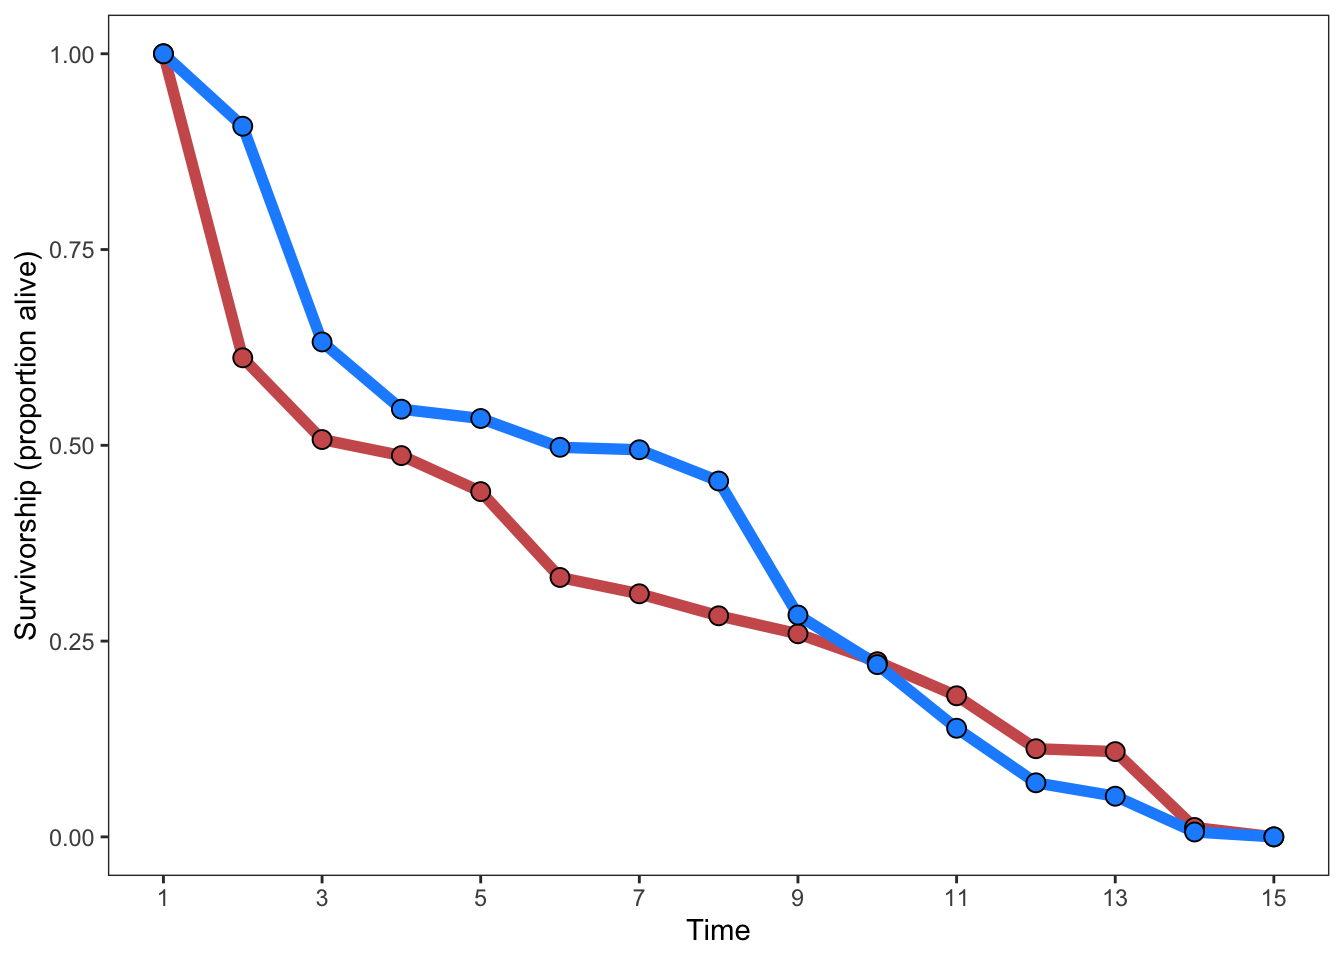
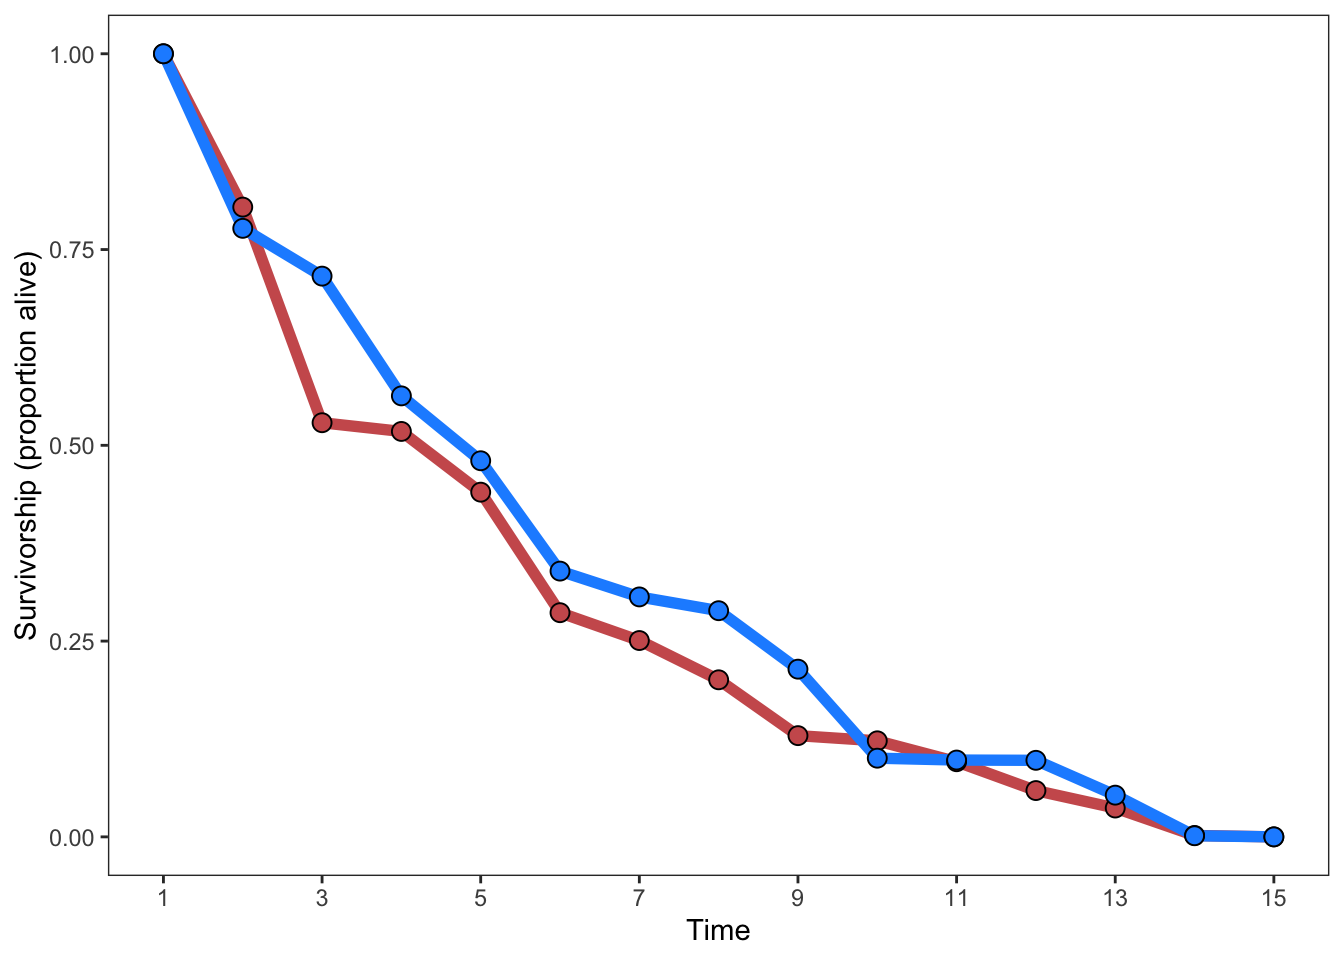
updates

Changed region(s): [[0.125, 0.0625, 0.9375, 0.875], [0.5312, 0.5, 0.5625, 0.5625]]

diff --git a/docs/3.3-lnOR-challenges.html b/docs/3.3-lnOR-challenges.html
@@ -4,7 +4,7 @@
 <meta charset="utf-8">
 <meta name="generator" content="quarto-1.9.38">
 <meta name="viewport" content="width=device-width, initial-scale=1.0, user-scalable=yes">
-<meta name="dcterms.date" content="2026-07-18">
+<meta name="dcterms.date" content="2026-07-19">
 <title>Discrete outcomes with discrete predictor – A user’s guide to effect sizes</title>
 <style>
 /* Default styles provided by pandoc.
@@ -325,7 +325,7 @@ window.Quarto = {
     <div>
     <div class="quarto-title-meta-heading">Published</div>
     <div class="quarto-title-meta-contents">
-      <p class="date">July 18, 2026</p>
+      <p class="date">July 19, 2026</p>
     </div>
   </div>
   
@@ -397,6 +397,7 @@ window.Quarto = {
 </table>
 </div>
 </div>
+<p><strong>Add values so this doesn’t look so dumb…</strong></p>
 <p>Here is a cheatsheet for extracting lnOR/lnRR type data: [XXXXXXX]</p>
 <section id="the-easy-cases" class="level1"><h1>The easy cases</h1>
 <p>Let’s start with some ideal, dreamy lnOR type data.</p>
@@ -623,7 +624,8 @@ window.Quarto = {
 </table>
 <p>As one can see, this type of data also poses a classic time-series challenge, which can face all effect sizes. We recommend extracting the data for each time point and then using random effects to control for temporal autocorrelation in your meta-analytic model (see sec-XXXX). An alternative is to extract the time point with the greatest difference between control and treatment and analyze that.</p>
 </section><section id="meanerror-outcome-for-two-discrete-groups" class="level2"><h2 class="anchored" data-anchor-id="meanerror-outcome-for-two-discrete-groups">Mean±error outcome for two discrete groups</h2>
-<p>Sometimes discrete outcomes are summarized into mean±error across trials/sites/islands/etc. This data format lends itself naturally to SMD/lnRoM/Zmu type effect sizes <span class="citation" data-cites="sec">(<a href="#ref-sec" role="doc-biblioref"><strong>sec?</strong></a>)</span>. However, the sample size for these effect sizes are likely to be the number of trials/sites/islands/etc instead of the number of individuals. This may make this effect size uncomparable to the rest of your dataset, if the rest of your dataset has individuals as the unit of replication.</p>
+<p>Sometimes discrete outcomes are summarized into mean±error across trials/sites/islands/etc. For example, a paper that monitored mortality rates across a discrete number nests on separate islands, calculated the mortality rate, and then summarized by mean±error across islands.</p>
+<p>This data format lends itself naturally to SMD/lnRoM/Zmu type effect sizes <span class="citation" data-cites="sec">(<a href="#ref-sec" role="doc-biblioref"><strong>sec?</strong></a>)</span>. However, the sample size for the mean±error in these summaries are the number of trials/sites/islands/etc instead of the number of individuals (or nests). If the unit of replication of the rest of your dataset is the number of individuals (or nests) then this effect size would have vastly less weight in your models (and probably shouldn’t be included).</p>
 <div class="cell">
 <div class="cell-output-display">
 <div>
@@ -727,9 +729,9 @@ p=1-\frac{sd^2}{m}
 <td style="text-align: right;">7</td>
 <td style="text-align: right;">0.0264575</td>
 <td style="text-align: right;">0.9953333</td>
-<td style="text-align: right;">208</td>
+<td style="text-align: right;">209</td>
 <td style="text-align: right;">210</td>
-<td style="text-align: right;">2</td>
+<td style="text-align: right;">1</td>
 </tr>
 <tr class="even">
 <td style="text-align: right;">0.31</td>
@@ -738,9 +740,9 @@ p=1-\frac{sd^2}{m}
 <td style="text-align: right;">9</td>
 <td style="text-align: right;">0.0450000</td>
 <td style="text-align: right;">0.9934677</td>
-<td style="text-align: right;">269</td>
+<td style="text-align: right;">268</td>
 <td style="text-align: right;">270</td>
-<td style="text-align: right;">1</td>
+<td style="text-align: right;">2</td>
 </tr>
 </tbody>
 </table>
@@ -1305,7 +1307,7 @@ p=1-\frac{sd^2}{m}
 <span id="cb5-94"><a href="#cb5-94" aria-hidden="true" tabindex="-1"></a>knitr<span class="sc">::</span><span class="fu">kable</span>(dat)</span>
 <span id="cb5-95"><a href="#cb5-95" aria-hidden="true" tabindex="-1"></a></span>
 <span id="cb5-96"><a href="#cb5-96" aria-hidden="true" tabindex="-1"></a><span class="in">```</span></span>
-<span id="cb5-97"><a href="#cb5-97" aria-hidden="true" tabindex="-1"></a></span>
+<span id="cb5-97"><a href="#cb5-97" aria-hidden="true" tabindex="-1"></a>**Add values so this doesn't look so dumb...**</span>
 <span id="cb5-98"><a href="#cb5-98" aria-hidden="true" tabindex="-1"></a></span>
 <span id="cb5-99"><a href="#cb5-99" aria-hidden="true" tabindex="-1"></a>Here is a cheatsheet for extracting lnOR/lnRR type data: <span class="co">[</span><span class="ot">XXXXXXX</span><span class="co">]</span></span>
 <span id="cb5-100"><a href="#cb5-100" aria-hidden="true" tabindex="-1"></a></span>
@@ -1488,114 +1490,115 @@ p=1-\frac{sd^2}{m}
 <span id="cb5-287"><a href="#cb5-287" aria-hidden="true" tabindex="-1"></a></span>
 <span id="cb5-288"><a href="#cb5-288" aria-hidden="true" tabindex="-1"></a><span class="fu">## Mean±error outcome for two discrete groups</span></span>
 <span id="cb5-289"><a href="#cb5-289" aria-hidden="true" tabindex="-1"></a></span>
-<span id="cb5-290"><a href="#cb5-290" aria-hidden="true" tabindex="-1"></a>Sometimes discrete outcomes are summarized into mean±error across trials/sites/islands/etc. This data format lends itself naturally to SMD/lnRoM/Zmu type effect sizes @sec. However, the sample size for these effect sizes are likely to be the number of trials/sites/islands/etc instead of the number of individuals. This may make this effect size uncomparable to the rest of your dataset, if the rest of your dataset has individuals as the unit of replication. </span>
+<span id="cb5-290"><a href="#cb5-290" aria-hidden="true" tabindex="-1"></a>Sometimes discrete outcomes are summarized into mean±error across trials/sites/islands/etc. For example, a paper that monitored mortality rates across a discrete number nests on separate islands, calculated the mortality rate, and then summarized by mean±error across islands.</span>
 <span id="cb5-291"><a href="#cb5-291" aria-hidden="true" tabindex="-1"></a></span>
-<span id="cb5-294"><a href="#cb5-294" aria-hidden="true" tabindex="-1"></a><span class="in">```{r}</span></span>
-<span id="cb5-295"><a href="#cb5-295" aria-hidden="true" tabindex="-1"></a><span class="co">#| echo: false</span></span>
-<span id="cb5-296"><a href="#cb5-296" aria-hidden="true" tabindex="-1"></a><span class="co">#| eval: true</span></span>
-<span id="cb5-297"><a href="#cb5-297" aria-hidden="true" tabindex="-1"></a><span class="co">#| out-width: "70%"</span></span>
-<span id="cb5-298"><a href="#cb5-298" aria-hidden="true" tabindex="-1"></a></span>
-<span id="cb5-299"><a href="#cb5-299" aria-hidden="true" tabindex="-1"></a><span class="co"># Simple:</span></span>
-<span id="cb5-300"><a href="#cb5-300" aria-hidden="true" tabindex="-1"></a>dt <span class="ot">&lt;-</span> <span class="fu">data.table</span>(<span class="at">mean =</span> <span class="fu">c</span>(<span class="fl">0.15</span>, <span class="fl">0.31</span>), </span>
-<span id="cb5-301"><a href="#cb5-301" aria-hidden="true" tabindex="-1"></a>                 <span class="at">group =</span> <span class="fu">c</span>(<span class="st">"Control"</span>, <span class="st">"Treatment"</span>),</span>
-<span id="cb5-302"><a href="#cb5-302" aria-hidden="true" tabindex="-1"></a>                 <span class="at">se =</span> <span class="fu">c</span>(<span class="fl">0.01</span>, <span class="fl">0.015</span>))</span>
-<span id="cb5-303"><a href="#cb5-303" aria-hidden="true" tabindex="-1"></a><span class="co"># dt &lt;- </span></span>
-<span id="cb5-304"><a href="#cb5-304" aria-hidden="true" tabindex="-1"></a><span class="fu">ggplot</span>(<span class="at">data =</span> dt,</span>
-<span id="cb5-305"><a href="#cb5-305" aria-hidden="true" tabindex="-1"></a>       <span class="fu">aes</span>(<span class="at">x =</span> group, <span class="at">y =</span> mean, <span class="at">fill =</span> group, <span class="at">ymin =</span> mean<span class="sc">-</span>se,</span>
-<span id="cb5-306"><a href="#cb5-306" aria-hidden="true" tabindex="-1"></a>           <span class="at">ymax =</span> mean<span class="sc">+</span>se))<span class="sc">+</span></span>
-<span id="cb5-307"><a href="#cb5-307" aria-hidden="true" tabindex="-1"></a>  <span class="fu">geom_col</span>()<span class="sc">+</span></span>
-<span id="cb5-308"><a href="#cb5-308" aria-hidden="true" tabindex="-1"></a>  <span class="fu">geom_errorbar</span>(<span class="at">width =</span> <span class="fl">0.5</span>)<span class="sc">+</span></span>
-<span id="cb5-309"><a href="#cb5-309" aria-hidden="true" tabindex="-1"></a>  <span class="fu">scale_fill_manual</span>(<span class="cn">NULL</span>,</span>
-<span id="cb5-310"><a href="#cb5-310" aria-hidden="true" tabindex="-1"></a>                    <span class="at">values =</span> <span class="fu">c</span>(<span class="st">"Control"</span> <span class="ot">=</span> <span class="st">"dodgerblue2"</span>,</span>
-<span id="cb5-311"><a href="#cb5-311" aria-hidden="true" tabindex="-1"></a>                               <span class="st">"Treatment"</span> <span class="ot">=</span> <span class="st">"indianred"</span>))<span class="sc">+</span>  </span>
-<span id="cb5-312"><a href="#cb5-312" aria-hidden="true" tabindex="-1"></a>  <span class="fu">xlab</span>(<span class="cn">NULL</span>)<span class="sc">+</span></span>
-<span id="cb5-313"><a href="#cb5-313" aria-hidden="true" tabindex="-1"></a>  <span class="fu">ylab</span>(<span class="st">"Mean mortality rate across sites (±standard error)"</span>)<span class="sc">+</span></span>
-<span id="cb5-314"><a href="#cb5-314" aria-hidden="true" tabindex="-1"></a>  <span class="fu">theme_bw</span>()<span class="sc">+</span></span>
-<span id="cb5-315"><a href="#cb5-315" aria-hidden="true" tabindex="-1"></a>  <span class="fu">theme</span>(<span class="at">panel.grid =</span> <span class="fu">element_blank</span>(),</span>
-<span id="cb5-316"><a href="#cb5-316" aria-hidden="true" tabindex="-1"></a>        <span class="at">legend.position =</span> <span class="st">"none"</span>)</span>
-<span id="cb5-317"><a href="#cb5-317" aria-hidden="true" tabindex="-1"></a></span>
-<span id="cb5-318"><a href="#cb5-318" aria-hidden="true" tabindex="-1"></a>dt[, n_sites <span class="sc">:</span><span class="er">=</span> <span class="fu">ifelse</span>(group <span class="sc">==</span> <span class="st">"Control"</span>, <span class="dv">7</span>, <span class="dv">9</span>)]</span>
-<span id="cb5-319"><a href="#cb5-319" aria-hidden="true" tabindex="-1"></a></span>
-<span id="cb5-320"><a href="#cb5-320" aria-hidden="true" tabindex="-1"></a><span class="in">```</span></span>
-<span id="cb5-321"><a href="#cb5-321" aria-hidden="true" tabindex="-1"></a></span>
-<span id="cb5-322"><a href="#cb5-322" aria-hidden="true" tabindex="-1"></a>This data required a total number of individuals in each fate category (e.g., alive vs dead) and is thus ultimately best suited for lnOR type effect sizes—yet it's presented in a way that is most readily extractable for SMD/lnRoM/Zmu effect sizes. Moreover, as you can see, this figure presents standard error, not standard deviation. Converting standard error to standard deviation requires the sample size used by the study authors to calculate standard error in the first place, which is the number of sites.</span>
-<span id="cb5-323"><a href="#cb5-323" aria-hidden="true" tabindex="-1"></a></span>
-<span id="cb5-324"><a href="#cb5-324" aria-hidden="true" tabindex="-1"></a>In this case, we'd recommend reconstructing the fate of individuals within each site, using properties of the binomial distribution. This requires the following information:</span>
-<span id="cb5-325"><a href="#cb5-325" aria-hidden="true" tabindex="-1"></a></span>
-<span id="cb5-326"><a href="#cb5-326" aria-hidden="true" tabindex="-1"></a>**Is this the best option???**</span>
-<span id="cb5-327"><a href="#cb5-327" aria-hidden="true" tabindex="-1"></a></span>
-<span id="cb5-328"><a href="#cb5-328" aria-hidden="true" tabindex="-1"></a>1) the number of sites used in calculating the standard error.</span>
-<span id="cb5-329"><a href="#cb5-329" aria-hidden="true" tabindex="-1"></a></span>
-<span id="cb5-330"><a href="#cb5-330" aria-hidden="true" tabindex="-1"></a>2) the number of individuals at each site.</span>
-<span id="cb5-331"><a href="#cb5-331" aria-hidden="true" tabindex="-1"></a></span>
-<span id="cb5-332"><a href="#cb5-332" aria-hidden="true" tabindex="-1"></a>The number of sites is, in binomial speak, the number of trials (usually denoted $m$ but here we'll denote it as $t$ to avoid confusion with mean). The number of individuals is the number of observations ($n$).</span>
-<span id="cb5-333"><a href="#cb5-333" aria-hidden="true" tabindex="-1"></a></span>
-<span id="cb5-334"><a href="#cb5-334" aria-hidden="true" tabindex="-1"></a>Let's imagine that we found that the number of sites was 7 for the control treatment and 9 for the treatment. We start by using these to convert the extracted standard error ($se$) to standard deviation ($sd$) in our data.table we extracted from the figure:</span>
-<span id="cb5-335"><a href="#cb5-335" aria-hidden="true" tabindex="-1"></a></span>
-<span id="cb5-338"><a href="#cb5-338" aria-hidden="true" tabindex="-1"></a><span class="in">```{r}</span></span>
-<span id="cb5-339"><a href="#cb5-339" aria-hidden="true" tabindex="-1"></a><span class="co">#| eval: true</span></span>
-<span id="cb5-340"><a href="#cb5-340" aria-hidden="true" tabindex="-1"></a><span class="co">#| echo: true</span></span>
-<span id="cb5-341"><a href="#cb5-341" aria-hidden="true" tabindex="-1"></a><span class="co">#| out-width: "70%"</span></span>
-<span id="cb5-342"><a href="#cb5-342" aria-hidden="true" tabindex="-1"></a></span>
-<span id="cb5-343"><a href="#cb5-343" aria-hidden="true" tabindex="-1"></a>dt[, sd <span class="sc">:</span><span class="er">=</span> se <span class="sc">*</span> <span class="fu">sqrt</span>(n_sites)]</span>
-<span id="cb5-344"><a href="#cb5-344" aria-hidden="true" tabindex="-1"></a></span>
-<span id="cb5-345"><a href="#cb5-345" aria-hidden="true" tabindex="-1"></a>knitr<span class="sc">::</span><span class="fu">kable</span>(dt)</span>
-<span id="cb5-346"><a href="#cb5-346" aria-hidden="true" tabindex="-1"></a></span>
-<span id="cb5-347"><a href="#cb5-347" aria-hidden="true" tabindex="-1"></a><span class="in">```</span></span>
-<span id="cb5-348"><a href="#cb5-348" aria-hidden="true" tabindex="-1"></a></span>
-<span id="cb5-349"><a href="#cb5-349" aria-hidden="true" tabindex="-1"></a>**I'm not sure this is right...**</span>
-<span id="cb5-350"><a href="#cb5-350" aria-hidden="true" tabindex="-1"></a></span>
-<span id="cb5-351"><a href="#cb5-351" aria-hidden="true" tabindex="-1"></a>We now use the mean ($m$) and standard deviation to calculate $p$, the parameter that describes the shape of the binomial distribution. Note that the the standard deviation must be less than the square root of the mean.</span>
-<span id="cb5-352"><a href="#cb5-352" aria-hidden="true" tabindex="-1"></a></span>
-<span id="cb5-353"><a href="#cb5-353" aria-hidden="true" tabindex="-1"></a>$$</span>
-<span id="cb5-354"><a href="#cb5-354" aria-hidden="true" tabindex="-1"></a>p=1-\frac{sd^2}{m}</span>
-<span id="cb5-355"><a href="#cb5-355" aria-hidden="true" tabindex="-1"></a>$$</span>
-<span id="cb5-356"><a href="#cb5-356" aria-hidden="true" tabindex="-1"></a>We also gleaned from the text that the number of individuals was 30 per site Things get more tricky, coding wise, if the number of individuals is different per site. We use this, along with <span class="in">`p`</span> to simulate the underlying number of individuals that are alive vs dead across all sites per control and treatment.</span>
-<span id="cb5-357"><a href="#cb5-357" aria-hidden="true" tabindex="-1"></a></span>
-<span id="cb5-358"><a href="#cb5-358" aria-hidden="true" tabindex="-1"></a><span class="in">`rbinom`</span>, which we'll use to draw binomial data, takes <span class="in">`p`</span> as well as <span class="in">`n`</span>, which is the number of sites, and <span class="in">`size`</span>, which is the number of individuals per site</span>
-<span id="cb5-359"><a href="#cb5-359" aria-hidden="true" tabindex="-1"></a>**Is that correct??**</span>
-<span id="cb5-360"><a href="#cb5-360" aria-hidden="true" tabindex="-1"></a></span>
-<span id="cb5-361"><a href="#cb5-361" aria-hidden="true" tabindex="-1"></a>Since we're interested in the total number that lived, we take the sum of each vector produced by <span class="in">`rbinom`</span>. This vector will be of length equal to the number of sites, with an integer that is the number that lived of 30 individuals per site.</span>
-<span id="cb5-362"><a href="#cb5-362" aria-hidden="true" tabindex="-1"></a></span>
-<span id="cb5-363"><a href="#cb5-363" aria-hidden="true" tabindex="-1"></a>**p becomes equal in both treatments...Think there must be a relationship between mean and sd that I don't understand. Or my equation is wrong...**</span>
-<span id="cb5-366"><a href="#cb5-366" aria-hidden="true" tabindex="-1"></a><span class="in">```{r}</span></span>
-<span id="cb5-367"><a href="#cb5-367" aria-hidden="true" tabindex="-1"></a>dt[, p <span class="sc">:</span><span class="er">=</span> (<span class="dv">1</span> <span class="sc">-</span> (sd<span class="sc">^</span><span class="dv">2</span>)<span class="sc">/</span>mean)]</span>
-<span id="cb5-368"><a href="#cb5-368" aria-hidden="true" tabindex="-1"></a></span>
-<span id="cb5-369"><a href="#cb5-369" aria-hidden="true" tabindex="-1"></a><span class="cf">for</span>(i <span class="cf">in</span> <span class="dv">1</span><span class="sc">:</span><span class="fu">nrow</span>(dt)){</span>
-<span id="cb5-370"><a href="#cb5-370" aria-hidden="true" tabindex="-1"></a>  dt<span class="sc">$</span>n_alive[i] <span class="ot">&lt;-</span> <span class="fu">rbinom</span>(<span class="at">n =</span> dt<span class="sc">$</span>n_sites[i],</span>
-<span id="cb5-371"><a href="#cb5-371" aria-hidden="true" tabindex="-1"></a>                     <span class="at">size =</span> <span class="dv">30</span>,</span>
-<span id="cb5-372"><a href="#cb5-372" aria-hidden="true" tabindex="-1"></a>                     <span class="at">p =</span> dt<span class="sc">$</span>p[i]) <span class="sc">|&gt;</span> <span class="fu">sum</span>()</span>
-<span id="cb5-373"><a href="#cb5-373" aria-hidden="true" tabindex="-1"></a>}</span>
-<span id="cb5-374"><a href="#cb5-374" aria-hidden="true" tabindex="-1"></a></span>
-<span id="cb5-375"><a href="#cb5-375" aria-hidden="true" tabindex="-1"></a><span class="co"># Now calculate total number individuals:</span></span>
-<span id="cb5-376"><a href="#cb5-376" aria-hidden="true" tabindex="-1"></a>dt[, total_individuals <span class="sc">:</span><span class="er">=</span> <span class="dv">30</span> <span class="sc">*</span> n_sites]</span>
-<span id="cb5-377"><a href="#cb5-377" aria-hidden="true" tabindex="-1"></a>dt[, n_dead <span class="sc">:</span><span class="er">=</span> total_individuals <span class="sc">-</span> n_alive]</span>
-<span id="cb5-378"><a href="#cb5-378" aria-hidden="true" tabindex="-1"></a></span>
-<span id="cb5-379"><a href="#cb5-379" aria-hidden="true" tabindex="-1"></a>knitr<span class="sc">::</span><span class="fu">kable</span>(dt)</span>
-<span id="cb5-380"><a href="#cb5-380" aria-hidden="true" tabindex="-1"></a></span>
-<span id="cb5-381"><a href="#cb5-381" aria-hidden="true" tabindex="-1"></a><span class="in">```</span></span>
-<span id="cb5-382"><a href="#cb5-382" aria-hidden="true" tabindex="-1"></a></span>
-<span id="cb5-383"><a href="#cb5-383" aria-hidden="true" tabindex="-1"></a>Now you have the ingredients to calculate lnOR or lnRR. The sample size went from 7 and 9 to the actual number of individuals, making the unit of replication comparable with the other effect sizes in your dataset.</span>
-<span id="cb5-384"><a href="#cb5-384" aria-hidden="true" tabindex="-1"></a></span>
-<span id="cb5-385"><a href="#cb5-385" aria-hidden="true" tabindex="-1"></a>Note, that if there were variable numbers of individuals per site, then you'd want to create a long dataframe (e.g., by merging your extracted summaries with a table of number of individuals per site). Then loop through this longer data frame, using the number of individuals per site as your <span class="in">`size`</span> in the code above. </span>
-<span id="cb5-386"><a href="#cb5-386" aria-hidden="true" tabindex="-1"></a></span>
-<span id="cb5-387"><a href="#cb5-387" aria-hidden="true" tabindex="-1"></a>Let us know if you'd like us to write sample code to do something like that :)</span>
-<span id="cb5-388"><a href="#cb5-388" aria-hidden="true" tabindex="-1"></a></span>
-<span id="cb5-389"><a href="#cb5-389" aria-hidden="true" tabindex="-1"></a><span class="fu">## LC50?</span></span>
-<span id="cb5-390"><a href="#cb5-390" aria-hidden="true" tabindex="-1"></a></span>
-<span id="cb5-391"><a href="#cb5-391" aria-hidden="true" tabindex="-1"></a>Many laboratory studies, for example on the effects of a pollution agent on mortality, report LC50, which is the dosage at which 50% of the exposed individuals experience an outcome (e.g., die).</span>
-<span id="cb5-392"><a href="#cb5-392" aria-hidden="true" tabindex="-1"></a></span>
-<span id="cb5-393"><a href="#cb5-393" aria-hidden="true" tabindex="-1"></a>These figures look like this:</span>
-<span id="cb5-394"><a href="#cb5-394" aria-hidden="true" tabindex="-1"></a></span>
-<span id="cb5-397"><a href="#cb5-397" aria-hidden="true" tabindex="-1"></a><span class="in">```{r}</span></span>
-<span id="cb5-398"><a href="#cb5-398" aria-hidden="true" tabindex="-1"></a><span class="co">#' @Kyle?</span></span>
-<span id="cb5-399"><a href="#cb5-399" aria-hidden="true" tabindex="-1"></a><span class="in">```</span></span>
-<span id="cb5-400"><a href="#cb5-400" aria-hidden="true" tabindex="-1"></a></span>
-<span id="cb5-401"><a href="#cb5-401" aria-hidden="true" tabindex="-1"></a>LC50 is already its own formula. We do not know how to convert this to lnOR or lnRR. If you're faced with lots of this data, you could consider converting survivorship curves, or other data sources, to LC50—and deriving a sampling variance formula or using SAFE to simulate sampling variance.</span>
-<span id="cb5-402"><a href="#cb5-402" aria-hidden="true" tabindex="-1"></a></span>
-<span id="cb5-403"><a href="#cb5-403" aria-hidden="true" tabindex="-1"></a><span class="fu">## Model estimates</span></span>
-<span id="cb5-404"><a href="#cb5-404" aria-hidden="true" tabindex="-1"></a></span>
-<span id="cb5-405"><a href="#cb5-405" aria-hidden="true" tabindex="-1"></a>According to Gemini, you can multiply an *unstandardized* logistic regression coefficient by 1.81 to convert it to lnOR. But not sure if that's true—and not sure how to calculate sampling variance.</span>
+<span id="cb5-292"><a href="#cb5-292" aria-hidden="true" tabindex="-1"></a>This data format lends itself naturally to SMD/lnRoM/Zmu type effect sizes @sec. However, the sample size for the mean±error in these summaries are the number of trials/sites/islands/etc instead of the number of individuals (or nests). If the unit of replication of the rest of your dataset is the number of individuals (or nests) then this effect size would have vastly less weight in your models (and probably shouldn't be included).</span>
+<span id="cb5-295"><a href="#cb5-295" aria-hidden="true" tabindex="-1"></a><span class="in">```{r}</span></span>
+<span id="cb5-296"><a href="#cb5-296" aria-hidden="true" tabindex="-1"></a><span class="co">#| echo: false</span></span>
+<span id="cb5-297"><a href="#cb5-297" aria-hidden="true" tabindex="-1"></a><span class="co">#| eval: true</span></span>
+<span id="cb5-298"><a href="#cb5-298" aria-hidden="true" tabindex="-1"></a><span class="co">#| out-width: "70%"</span></span>
+<span id="cb5-299"><a href="#cb5-299" aria-hidden="true" tabindex="-1"></a></span>
+<span id="cb5-300"><a href="#cb5-300" aria-hidden="true" tabindex="-1"></a><span class="co"># Simple:</span></span>
+<span id="cb5-301"><a href="#cb5-301" aria-hidden="true" tabindex="-1"></a>dt <span class="ot">&lt;-</span> <span class="fu">data.table</span>(<span class="at">mean =</span> <span class="fu">c</span>(<span class="fl">0.15</span>, <span class="fl">0.31</span>), </span>
+<span id="cb5-302"><a href="#cb5-302" aria-hidden="true" tabindex="-1"></a>                 <span class="at">group =</span> <span class="fu">c</span>(<span class="st">"Control"</span>, <span class="st">"Treatment"</span>),</span>
+<span id="cb5-303"><a href="#cb5-303" aria-hidden="true" tabindex="-1"></a>                 <span class="at">se =</span> <span class="fu">c</span>(<span class="fl">0.01</span>, <span class="fl">0.015</span>))</span>
+<span id="cb5-304"><a href="#cb5-304" aria-hidden="true" tabindex="-1"></a><span class="co"># dt &lt;- </span></span>
+<span id="cb5-305"><a href="#cb5-305" aria-hidden="true" tabindex="-1"></a><span class="fu">ggplot</span>(<span class="at">data =</span> dt,</span>
+<span id="cb5-306"><a href="#cb5-306" aria-hidden="true" tabindex="-1"></a>       <span class="fu">aes</span>(<span class="at">x =</span> group, <span class="at">y =</span> mean, <span class="at">fill =</span> group, <span class="at">ymin =</span> mean<span class="sc">-</span>se,</span>
+<span id="cb5-307"><a href="#cb5-307" aria-hidden="true" tabindex="-1"></a>           <span class="at">ymax =</span> mean<span class="sc">+</span>se))<span class="sc">+</span></span>
+<span id="cb5-308"><a href="#cb5-308" aria-hidden="true" tabindex="-1"></a>  <span class="fu">geom_col</span>()<span class="sc">+</span></span>
+<span id="cb5-309"><a href="#cb5-309" aria-hidden="true" tabindex="-1"></a>  <span class="fu">geom_errorbar</span>(<span class="at">width =</span> <span class="fl">0.5</span>)<span class="sc">+</span></span>
+<span id="cb5-310"><a href="#cb5-310" aria-hidden="true" tabindex="-1"></a>  <span class="fu">scale_fill_manual</span>(<span class="cn">NULL</span>,</span>
+<span id="cb5-311"><a href="#cb5-311" aria-hidden="true" tabindex="-1"></a>                    <span class="at">values =</span> <span class="fu">c</span>(<span class="st">"Control"</span> <span class="ot">=</span> <span class="st">"dodgerblue2"</span>,</span>
+<span id="cb5-312"><a href="#cb5-312" aria-hidden="true" tabindex="-1"></a>                               <span class="st">"Treatment"</span> <span class="ot">=</span> <span class="st">"indianred"</span>))<span class="sc">+</span>  </span>
+<span id="cb5-313"><a href="#cb5-313" aria-hidden="true" tabindex="-1"></a>  <span class="fu">xlab</span>(<span class="cn">NULL</span>)<span class="sc">+</span></span>
+<span id="cb5-314"><a href="#cb5-314" aria-hidden="true" tabindex="-1"></a>  <span class="fu">ylab</span>(<span class="st">"Mean mortality rate across sites (±standard error)"</span>)<span class="sc">+</span></span>
+<span id="cb5-315"><a href="#cb5-315" aria-hidden="true" tabindex="-1"></a>  <span class="fu">theme_bw</span>()<span class="sc">+</span></span>
+<span id="cb5-316"><a href="#cb5-316" aria-hidden="true" tabindex="-1"></a>  <span class="fu">theme</span>(<span class="at">panel.grid =</span> <span class="fu">element_blank</span>(),</span>
+<span id="cb5-317"><a href="#cb5-317" aria-hidden="true" tabindex="-1"></a>        <span class="at">legend.position =</span> <span class="st">"none"</span>)</span>
+<span id="cb5-318"><a href="#cb5-318" aria-hidden="true" tabindex="-1"></a></span>
+<span id="cb5-319"><a href="#cb5-319" aria-hidden="true" tabindex="-1"></a>dt[, n_sites <span class="sc">:</span><span class="er">=</span> <span class="fu">ifelse</span>(group <span class="sc">==</span> <span class="st">"Control"</span>, <span class="dv">7</span>, <span class="dv">9</span>)]</span>
+<span id="cb5-320"><a href="#cb5-320" aria-hidden="true" tabindex="-1"></a></span>
+<span id="cb5-321"><a href="#cb5-321" aria-hidden="true" tabindex="-1"></a><span class="in">```</span></span>
+<span id="cb5-322"><a href="#cb5-322" aria-hidden="true" tabindex="-1"></a></span>
+<span id="cb5-323"><a href="#cb5-323" aria-hidden="true" tabindex="-1"></a>This data required a total number of individuals in each fate category (e.g., alive vs dead) and is thus ultimately best suited for lnOR type effect sizes—yet it's presented in a way that is most readily extractable for SMD/lnRoM/Zmu effect sizes. Moreover, as you can see, this figure presents standard error, not standard deviation. Converting standard error to standard deviation requires the sample size used by the study authors to calculate standard error in the first place, which is the number of sites.</span>
+<span id="cb5-324"><a href="#cb5-324" aria-hidden="true" tabindex="-1"></a></span>
+<span id="cb5-325"><a href="#cb5-325" aria-hidden="true" tabindex="-1"></a>In this case, we'd recommend reconstructing the fate of individuals within each site, using properties of the binomial distribution. This requires the following information:</span>
+<span id="cb5-326"><a href="#cb5-326" aria-hidden="true" tabindex="-1"></a></span>
+<span id="cb5-327"><a href="#cb5-327" aria-hidden="true" tabindex="-1"></a>**Is this the best option???**</span>
+<span id="cb5-328"><a href="#cb5-328" aria-hidden="true" tabindex="-1"></a></span>
+<span id="cb5-329"><a href="#cb5-329" aria-hidden="true" tabindex="-1"></a>1) the number of sites used in calculating the standard error.</span>
+<span id="cb5-330"><a href="#cb5-330" aria-hidden="true" tabindex="-1"></a></span>
+<span id="cb5-331"><a href="#cb5-331" aria-hidden="true" tabindex="-1"></a>2) the number of individuals at each site.</span>
+<span id="cb5-332"><a href="#cb5-332" aria-hidden="true" tabindex="-1"></a></span>
+<span id="cb5-333"><a href="#cb5-333" aria-hidden="true" tabindex="-1"></a>The number of sites is, in binomial speak, the number of trials (usually denoted $m$ but here we'll denote it as $t$ to avoid confusion with mean). The number of individuals is the number of observations ($n$).</span>
+<span id="cb5-334"><a href="#cb5-334" aria-hidden="true" tabindex="-1"></a></span>
+<span id="cb5-335"><a href="#cb5-335" aria-hidden="true" tabindex="-1"></a>Let's imagine that we found that the number of sites was 7 for the control treatment and 9 for the treatment. We start by using these to convert the extracted standard error ($se$) to standard deviation ($sd$) in our data.table we extracted from the figure:</span>
+<span id="cb5-336"><a href="#cb5-336" aria-hidden="true" tabindex="-1"></a></span>
+<span id="cb5-339"><a href="#cb5-339" aria-hidden="true" tabindex="-1"></a><span class="in">```{r}</span></span>
+<span id="cb5-340"><a href="#cb5-340" aria-hidden="true" tabindex="-1"></a><span class="co">#| eval: true</span></span>
+<span id="cb5-341"><a href="#cb5-341" aria-hidden="true" tabindex="-1"></a><span class="co">#| echo: true</span></span>
+<span id="cb5-342"><a href="#cb5-342" aria-hidden="true" tabindex="-1"></a><span class="co">#| out-width: "70%"</span></span>
+<span id="cb5-343"><a href="#cb5-343" aria-hidden="true" tabindex="-1"></a></span>
+<span id="cb5-344"><a href="#cb5-344" aria-hidden="true" tabindex="-1"></a>dt[, sd <span class="sc">:</span><span class="er">=</span> se <span class="sc">*</span> <span class="fu">sqrt</span>(n_sites)]</span>
+<span id="cb5-345"><a href="#cb5-345" aria-hidden="true" tabindex="-1"></a></span>
+<span id="cb5-346"><a href="#cb5-346" aria-hidden="true" tabindex="-1"></a>knitr<span class="sc">::</span><span class="fu">kable</span>(dt)</span>
+<span id="cb5-347"><a href="#cb5-347" aria-hidden="true" tabindex="-1"></a></span>
+<span id="cb5-348"><a href="#cb5-348" aria-hidden="true" tabindex="-1"></a><span class="in">```</span></span>
+<span id="cb5-349"><a href="#cb5-349" aria-hidden="true" tabindex="-1"></a></span>
+<span id="cb5-350"><a href="#cb5-350" aria-hidden="true" tabindex="-1"></a>**I'm not sure this is right...**</span>
+<span id="cb5-351"><a href="#cb5-351" aria-hidden="true" tabindex="-1"></a></span>
+<span id="cb5-352"><a href="#cb5-352" aria-hidden="true" tabindex="-1"></a>We now use the mean ($m$) and standard deviation to calculate $p$, the parameter that describes the shape of the binomial distribution. Note that the the standard deviation must be less than the square root of the mean.</span>
+<span id="cb5-353"><a href="#cb5-353" aria-hidden="true" tabindex="-1"></a></span>
+<span id="cb5-354"><a href="#cb5-354" aria-hidden="true" tabindex="-1"></a>$$</span>
+<span id="cb5-355"><a href="#cb5-355" aria-hidden="true" tabindex="-1"></a>p=1-\frac{sd^2}{m}</span>
+<span id="cb5-356"><a href="#cb5-356" aria-hidden="true" tabindex="-1"></a>$$</span>
+<span id="cb5-357"><a href="#cb5-357" aria-hidden="true" tabindex="-1"></a>We also gleaned from the text that the number of individuals was 30 per site Things get more tricky, coding wise, if the number of individuals is different per site. We use this, along with <span class="in">`p`</span> to simulate the underlying number of individuals that are alive vs dead across all sites per control and treatment.</span>
+<span id="cb5-358"><a href="#cb5-358" aria-hidden="true" tabindex="-1"></a></span>
+<span id="cb5-359"><a href="#cb5-359" aria-hidden="true" tabindex="-1"></a><span class="in">`rbinom`</span>, which we'll use to draw binomial data, takes <span class="in">`p`</span> as well as <span class="in">`n`</span>, which is the number of sites, and <span class="in">`size`</span>, which is the number of individuals per site</span>
+<span id="cb5-360"><a href="#cb5-360" aria-hidden="true" tabindex="-1"></a>**Is that correct??**</span>
+<span id="cb5-361"><a href="#cb5-361" aria-hidden="true" tabindex="-1"></a></span>
+<span id="cb5-362"><a href="#cb5-362" aria-hidden="true" tabindex="-1"></a>Since we're interested in the total number that lived, we take the sum of each vector produced by <span class="in">`rbinom`</span>. This vector will be of length equal to the number of sites, with an integer that is the number that lived of 30 individuals per site.</span>
+<span id="cb5-363"><a href="#cb5-363" aria-hidden="true" tabindex="-1"></a></span>
+<span id="cb5-364"><a href="#cb5-364" aria-hidden="true" tabindex="-1"></a>**p becomes equal in both treatments...Think there must be a relationship between mean and sd that I don't understand. Or my equation is wrong...**</span>
+<span id="cb5-367"><a href="#cb5-367" aria-hidden="true" tabindex="-1"></a><span class="in">```{r}</span></span>
+<span id="cb5-368"><a href="#cb5-368" aria-hidden="true" tabindex="-1"></a>dt[, p <span class="sc">:</span><span class="er">=</span> (<span class="dv">1</span> <span class="sc">-</span> (sd<span class="sc">^</span><span class="dv">2</span>)<span class="sc">/</span>mean)]</span>
+<span id="cb5-369"><a href="#cb5-369" aria-hidden="true" tabindex="-1"></a></span>
+<span id="cb5-370"><a href="#cb5-370" aria-hidden="true" tabindex="-1"></a><span class="cf">for</span>(i <span class="cf">in</span> <span class="dv">1</span><span class="sc">:</span><span class="fu">nrow</span>(dt)){</span>
+<span id="cb5-371"><a href="#cb5-371" aria-hidden="true" tabindex="-1"></a>  dt<span class="sc">$</span>n_alive[i] <span class="ot">&lt;-</span> <span class="fu">rbinom</span>(<span class="at">n =</span> dt<span class="sc">$</span>n_sites[i],</span>
+<span id="cb5-372"><a href="#cb5-372" aria-hidden="true" tabindex="-1"></a>                     <span class="at">size =</span> <span class="dv">30</span>,</span>
+<span id="cb5-373"><a href="#cb5-373" aria-hidden="true" tabindex="-1"></a>                     <span class="at">p =</span> dt<span class="sc">$</span>p[i]) <span class="sc">|&gt;</span> <span class="fu">sum</span>()</span>
+<span id="cb5-374"><a href="#cb5-374" aria-hidden="true" tabindex="-1"></a>}</span>
+<span id="cb5-375"><a href="#cb5-375" aria-hidden="true" tabindex="-1"></a></span>
+<span id="cb5-376"><a href="#cb5-376" aria-hidden="true" tabindex="-1"></a><span class="co"># Now calculate total number individuals:</span></span>
+<span id="cb5-377"><a href="#cb5-377" aria-hidden="true" tabindex="-1"></a>dt[, total_individuals <span class="sc">:</span><span class="er">=</span> <span class="dv">30</span> <span class="sc">*</span> n_sites]</span>
+<span id="cb5-378"><a href="#cb5-378" aria-hidden="true" tabindex="-1"></a>dt[, n_dead <span class="sc">:</span><span class="er">=</span> total_individuals <span class="sc">-</span> n_alive]</span>
+<span id="cb5-379"><a href="#cb5-379" aria-hidden="true" tabindex="-1"></a></span>
+<span id="cb5-380"><a href="#cb5-380" aria-hidden="true" tabindex="-1"></a>knitr<span class="sc">::</span><span class="fu">kable</span>(dt)</span>
+<span id="cb5-381"><a href="#cb5-381" aria-hidden="true" tabindex="-1"></a></span>
+<span id="cb5-382"><a href="#cb5-382" aria-hidden="true" tabindex="-1"></a><span class="in">```</span></span>
+<span id="cb5-383"><a href="#cb5-383" aria-hidden="true" tabindex="-1"></a></span>
+<span id="cb5-384"><a href="#cb5-384" aria-hidden="true" tabindex="-1"></a>Now you have the ingredients to calculate lnOR or lnRR. The sample size went from 7 and 9 to the actual number of individuals, making the unit of replication comparable with the other effect sizes in your dataset.</span>
+<span id="cb5-385"><a href="#cb5-385" aria-hidden="true" tabindex="-1"></a></span>
+<span id="cb5-386"><a href="#cb5-386" aria-hidden="true" tabindex="-1"></a>Note, that if there were variable numbers of individuals per site, then you'd want to create a long dataframe (e.g., by merging your extracted summaries with a table of number of individuals per site). Then loop through this longer data frame, using the number of individuals per site as your <span class="in">`size`</span> in the code above. </span>
+<span id="cb5-387"><a href="#cb5-387" aria-hidden="true" tabindex="-1"></a></span>
+<span id="cb5-388"><a href="#cb5-388" aria-hidden="true" tabindex="-1"></a>Let us know if you'd like us to write sample code to do something like that :)</span>
+<span id="cb5-389"><a href="#cb5-389" aria-hidden="true" tabindex="-1"></a></span>
+<span id="cb5-390"><a href="#cb5-390" aria-hidden="true" tabindex="-1"></a><span class="fu">## LC50?</span></span>
+<span id="cb5-391"><a href="#cb5-391" aria-hidden="true" tabindex="-1"></a></span>
+<span id="cb5-392"><a href="#cb5-392" aria-hidden="true" tabindex="-1"></a>Many laboratory studies, for example on the effects of a pollution agent on mortality, report LC50, which is the dosage at which 50% of the exposed individuals experience an outcome (e.g., die).</span>
+<span id="cb5-393"><a href="#cb5-393" aria-hidden="true" tabindex="-1"></a></span>
+<span id="cb5-394"><a href="#cb5-394" aria-hidden="true" tabindex="-1"></a>These figures look like this:</span>
+<span id="cb5-395"><a href="#cb5-395" aria-hidden="true" tabindex="-1"></a></span>
+<span id="cb5-398"><a href="#cb5-398" aria-hidden="true" tabindex="-1"></a><span class="in">```{r}</span></span>
+<span id="cb5-399"><a href="#cb5-399" aria-hidden="true" tabindex="-1"></a><span class="co">#' @Kyle?</span></span>
+<span id="cb5-400"><a href="#cb5-400" aria-hidden="true" tabindex="-1"></a><span class="in">```</span></span>
+<span id="cb5-401"><a href="#cb5-401" aria-hidden="true" tabindex="-1"></a></span>
+<span id="cb5-402"><a href="#cb5-402" aria-hidden="true" tabindex="-1"></a>LC50 is already its own formula. We do not know how to convert this to lnOR or lnRR. If you're faced with lots of this data, you could consider converting survivorship curves, or other data sources, to LC50—and deriving a sampling variance formula or using SAFE to simulate sampling variance.</span>
+<span id="cb5-403"><a href="#cb5-403" aria-hidden="true" tabindex="-1"></a></span>
+<span id="cb5-404"><a href="#cb5-404" aria-hidden="true" tabindex="-1"></a><span class="fu">## Model estimates</span></span>
+<span id="cb5-405"><a href="#cb5-405" aria-hidden="true" tabindex="-1"></a></span>
+<span id="cb5-406"><a href="#cb5-406" aria-hidden="true" tabindex="-1"></a>According to Gemini, you can multiply an *unstandardized* logistic regression coefficient by 1.81 to convert it to lnOR. But not sure if that's true—and not sure how to calculate sampling variance.</span>
 </code></pre></div><button title="Copy to Clipboard" class="code-copy-button" data-in-quarto-modal=""><i class="bi"></i></button></div>
 </div></div></div></div></div>
 </div> <!-- /content -->

diff --git a/docs/2.3-Zr-assumptions.html b/docs/2.3-Zr-assumptions.html
@@ -4,7 +4,7 @@
 <meta charset="utf-8">
 <meta name="generator" content="quarto-1.9.38">
 <meta name="viewport" content="width=device-width, initial-scale=1.0, user-scalable=yes">
-<meta name="dcterms.date" content="2026-07-18">
+<meta name="dcterms.date" content="2026-07-19">
 <title>Continuous predictors – A user’s guide to effect sizes</title>
 <style>
 /* Default styles provided by pandoc.
@@ -321,7 +321,7 @@ window.Quarto = {
     <div>
     <div class="quarto-title-meta-heading">Published</div>
     <div class="quarto-title-meta-contents">
-      <p class="date">July 18, 2026</p>
+      <p class="date">July 19, 2026</p>
     </div>
   </div>
   